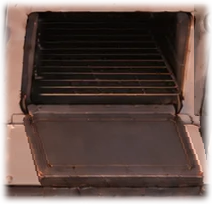
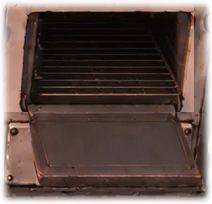
Rerna: cistije ivice okvira i vrata (prava perspektiva, zatvorena fioka iza vrata)
Claude-Session: https://claude.ai/code/session_01GMM3Rnq6i1o8tZEuJzXhvg

diff --git a/index.html b/index.html
@@ -36,7 +36,7 @@
 </filter>
 </defs>
 </svg>
-<div id="viewport"><div aria-hidden="true" id="sceneAmbient"></div><div id="scene"><div id="waterStream"></div><div id="waterSplash"></div><div id="tableOccluder"></div><div aria-hidden="true" id="sceneOcclusionLayer"><div aria-hidden="true" class="scene-occluder scene-occluder-left-leg" id="tableLegOccluderLeft"></div><div aria-hidden="true" class="scene-occluder scene-occluder-right-leg" id="tableLegOccluderRight"></div></div><div aria-hidden="true" id="fireTimerBar"><i></i></div><button aria-label="Vrata ložišta" class="stove-hotspot" id="fireboxHotspot"></button><img alt="" aria-hidden="true" draggable="false" id="ovenDoorOpen" src="assets/stove_states_v3/oven_door_open.webp?v=3"/><img alt="" aria-hidden="true" draggable="false" id="ovenDrawerOpen" src="assets/stove_states_v3/drawer_open.webp?v=1"/><button aria-label="Vrata rerne" class="stove-hotspot" id="ovenHotspot"></button><button aria-label="Fioka rerne" class="stove-hotspot" id="drawerHotspot"></button></div></div>
+<div id="viewport"><div aria-hidden="true" id="sceneAmbient"></div><div id="scene"><div id="waterStream"></div><div id="waterSplash"></div><div id="tableOccluder"></div><div aria-hidden="true" id="sceneOcclusionLayer"><div aria-hidden="true" class="scene-occluder scene-occluder-left-leg" id="tableLegOccluderLeft"></div><div aria-hidden="true" class="scene-occluder scene-occluder-right-leg" id="tableLegOccluderRight"></div></div><div aria-hidden="true" id="fireTimerBar"><i></i></div><button aria-label="Vrata ložišta" class="stove-hotspot" id="fireboxHotspot"></button><img alt="" aria-hidden="true" draggable="false" id="ovenDoorOpen" src="assets/stove_states_v3/oven_door_open.webp?v=4"/><img alt="" aria-hidden="true" draggable="false" id="ovenDrawerOpen" src="assets/stove_states_v3/drawer_open.webp?v=1"/><button aria-label="Vrata rerne" class="stove-hotspot" id="ovenHotspot"></button><button aria-label="Fioka rerne" class="stove-hotspot" id="drawerHotspot"></button></div></div>
 <button aria-label="Levo" class="edge-arrow left" id="leftArrow">‹</button>
 <button aria-label="Desno" class="edge-arrow right" id="rightArrow">›</button>
 <div id="cursor"></div><div id="label"></div>

diff --git a/NOTES.md b/NOTES.md
@@ -774,7 +774,7 @@ Kad serving.js nacrta sliku posude, sakriva staru masku prednjeg zida (ona je U-
 - Nije provereno: animacija (fioka se otvara odmah, bez prelaza), telefon, ubacivanje cepanice u ložište iz fioke u celom toku (samo uzimanje).
 
 ## Otvorena rerna (spuštena vrata) i vraćanje cepanica u fioku
-- Stara slika otvorene rerne (cela scena, sa vatrom u ložištu i vratima koja prekrivaju fioku) je obrisana (`oven_open.webp`). Nova je mali isečak (`assets/stove_states_v3/oven_door_open.webp`, 212×204) preko normalne kuhinje: vrata su spuštena prema gledaocu, svetli okvir oko vrata ostaje, a ložište i vatra se crtaju isto kao kad je rerna zatvorena. Unutrašnjost je sa stare slike (rešetke). Bela traka okvira desno od otvora (x 1586–1604) je sa stare kuhinje, da okvir ne nestane Donja (prednja) ivica spuštenih vrata je pomerena 13 px udesno, a spoj sa rernom ostaje na mestu (bolja perspektiva, po crtežu vlasnika).
+- Stara slika otvorene rerne (cela scena, sa vatrom u ložištu i vratima koja prekrivaju fioku) je obrisana (`oven_open.webp`). Nova je mali isečak (`assets/stove_states_v3/oven_door_open.webp`, 212×204) preko normalne kuhinje: vrata su spuštena prema gledaocu, svetli okvir oko vrata ostaje, a ložište i vatra se crtaju isto kao kad je rerna zatvorena. Unutrašnjost je sa stare slike (rešetke). Bela traka okvira desno od otvora (x 1586–1604) je sa stare kuhinje, da okvir ne nestane Spuštena vrata su prava perspektivna deformacija (donja/prednja ivica 13 px udesno, spoj sa rernom na mestu, po crtežu vlasnika), a iza njih je prednja ploča zatvorene fioke sa stare kuhinje (zakivci), pa su ivice čiste.
 - `syncOvenDoorPicture()`, `OVEN_DOOR_OPEN_RECT`; klik na spuštena vrata zatvara rernu. Otvaranje rerne zatvara fioku i obrnuto (vrata leže preko fioke).
 - Cepanica iz ruke se vraća u otvorenu fioku klikom na nju (`returnHeldLogToDrawer`); ako je fioka zatvorena: "Prvo otvori fioku." (`game.js?v=3.139`).
 - Napomena: otvorena vrata rerne i ložišta se ne pamte posle ponovnog učitavanja (i ranije nije bilo tako).
